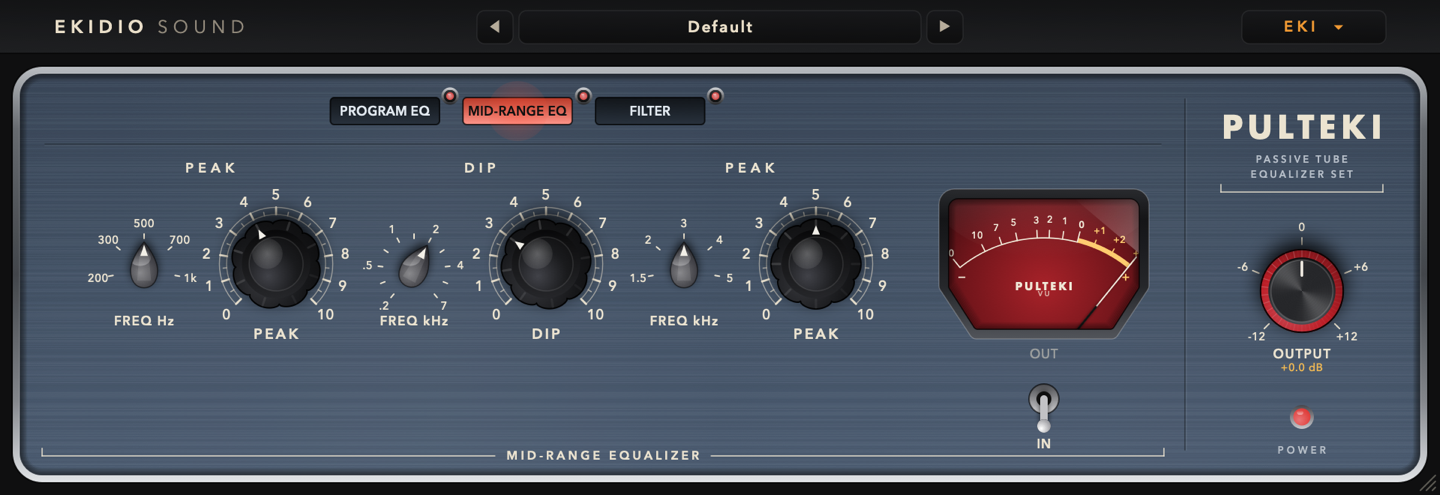
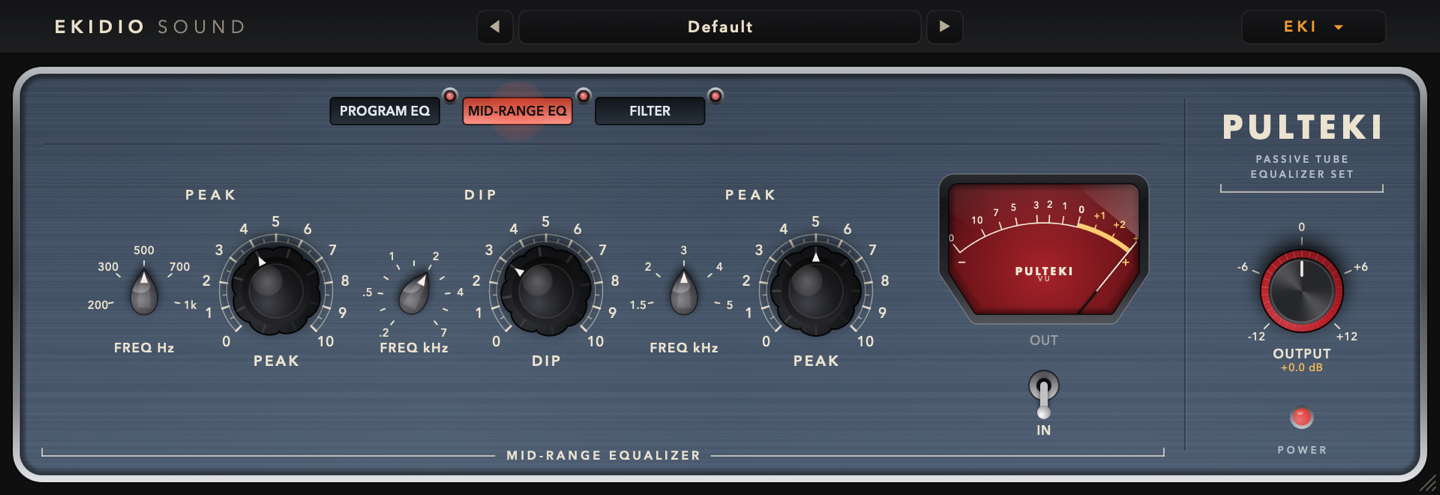
PULTEKI 1.0.1: symmetric MID-RANGE / FILTER pages; page images and download link updated

diff --git a/docs/hu/index.html b/docs/hu/index.html
@@ -146,7 +146,7 @@
       <div class="plugin" id="pulteki"><div class="viewer"><img src="../assets/pulteki-1.png" alt="PULTEKI – PROGRAM EQ" class="on"><img src="../assets/pulteki-2.png" alt="PULTEKI – MID-RANGE EQ"><img src="../assets/pulteki-3.png" alt="PULTEKI – FILTER"><div class="vtabs"><button type="button" onclick="pultekiPage(0)" class="on" aria-pressed="true">PROGRAM EQ</button><button type="button" onclick="pultekiPage(1)" aria-pressed="false">MID-RANGE EQ</button><button type="button" onclick="pultekiPage(2)" aria-pressed="false">FILTER</button></div></div><div><h3>PULTEKI</h3><div class="kind">Passzív csöves EQ-sor</div>
         <p>A legendás csöves equalizerek szelleme, kompromisszum nélküli tisztasággal. Három modul egy rackben: a programequalizer ikonikus mély trükkje – egyszerre emel és vág, amitől a lábdob és a basszus egyszerre lesz dús és feszes –, a középsávos EQ, ami előhozza vagy hátrébb teszi a hangszereket, és a szűrőegység a végső tisztításhoz. Selymes, levegős magasak, kerek, mély alj – és ha kell, egy csipetnyi csőszín is.</p>
         <p class="use">Mixbusz, mastering, lábdob, basszus, ének.</p>
-        <p><a class="btn primary" href="https://github.com/Ekidio/ekidio_sound_plugins/releases/download/pulteki-v1.0.0/EKIDIO-SOUND-PULTEKI-1.0.0.dmg">PULTEKI letöltése</a></p></div></div>
+        <p><a class="btn primary" href="https://github.com/Ekidio/ekidio_sound_plugins/releases/download/pulteki-v1.0.1/EKIDIO-SOUND-PULTEKI-1.0.1.dmg">PULTEKI letöltése</a></p></div></div>
     </div>
   </div>
 </section>

diff --git a/docs/index.html b/docs/index.html
@@ -146,7 +146,7 @@
       <div class="plugin" id="pulteki"><div class="viewer"><img src="assets/pulteki-1.png" alt="PULTEKI – PROGRAM EQ" class="on"><img src="assets/pulteki-2.png" alt="PULTEKI – MID-RANGE EQ"><img src="assets/pulteki-3.png" alt="PULTEKI – FILTER"><div class="vtabs"><button type="button" onclick="pultekiPage(0)" class="on" aria-pressed="true">PROGRAM EQ</button><button type="button" onclick="pultekiPage(1)" aria-pressed="false">MID-RANGE EQ</button><button type="button" onclick="pultekiPage(2)" aria-pressed="false">FILTER</button></div></div><div><h3>PULTEKI</h3><div class="kind">Passive tube equalizer set</div>
         <p>The spirit of the legendary tube equalizers, with uncompromising clarity. Three modules in one rack: the program EQ's iconic low-end trick – boost and cut at the same time, so kick and bass get both fuller and tighter –, the mid-range EQ that brings instruments forward or tucks them back, and the filter section for the final clean-up. Silky, airy highs, a round, deep bottom – and a touch of tube colour when you want it.</p>
         <p class="use">Mix bus, mastering, kick, bass, vocals.</p>
-        <p><a class="btn primary" href="https://github.com/Ekidio/ekidio_sound_plugins/releases/download/pulteki-v1.0.0/EKIDIO-SOUND-PULTEKI-1.0.0.dmg">Download PULTEKI</a></p></div></div>
+        <p><a class="btn primary" href="https://github.com/Ekidio/ekidio_sound_plugins/releases/download/pulteki-v1.0.1/EKIDIO-SOUND-PULTEKI-1.0.1.dmg">Download PULTEKI</a></p></div></div>
     </div>
   </div>
 </section>

diff --git a/Plugins/PULTEKI/PultekiPanel.mm b/Plugins/PULTEKI/PultekiPanel.mm
@@ -62,7 +62,7 @@ void drawFace(PanelController& pc) {
     const int pg = page(pc);
     static NSString* const names[3] = {@"PROGRAM EQUALIZER", @"MID-RANGE EQUALIZER", @"FILTER"};
     bracket(28, SPLIT - 14, 304, names[pg], INK);
-    auto title = [pg](CGFloat x, NSString* n) { textFont(n, @"AvenirNext-DemiBold", CGPointMake(x, pg == 2 ? 132 : 112), 9, rgb(INK), 3); };   // FILTER: a kapcsolókkal együtt középen
+    auto title = [pg](CGFloat x, NSString* n) { textFont(n, @"AvenirNext-DemiBold", CGPointMake(x, pg == 2 ? 140 : pg == 1 ? 130 : 112), 9, rgb(INK), 3); };   // a user rajza szerint (2026-10-23)
     if (pg == 0) { title(MID - 138, @"LOW"); title(MID + 138, @"HIGH"); }
     if (pg == 1) { title(MID1 - 180, @"PEAK"); title(MID1, @"DIP"); title(MID1 + 180, @"PEAK"); }
     if (pg == 2) { title(MID2 - 220, @"LOW CUT-OFF"); title(MID2 + 220, @"HIGH CUT-OFF"); }
@@ -71,7 +71,7 @@ void drawFace(PanelController& pc) {
     VUStyle v = dialStyle(@"PULTEKI", false, faces[std::clamp(int(pc.get(kVuColour) + 0.5f), 0, 2)]);
     v.legendSize = 11; v.legendKern = 2.2;
     // PROGRAM EQ és MID-RANGE EQ: jobbra fent (alatta az ATTEN SEL, ill. az IN); FILTER: középen, a két nagy kapcsoló között
-    drawVU(pg == 2 ? NSMakeRect(MID2 - 63, 124, 126, 90) : pg == 1 ? NSOffsetRect(kVuRect, 0, 10) : kVuRect,
+    drawVU(pg == 2 ? NSMakeRect(MID2 - 63, 124, 126, 90) : kVuRect,
            pc.processing ? pc.get(kVU) : -20.0f, v);
     // a fülek melletti LED-ek: a modul IN állásban van-e
     const AudioUnitParameterID ins[3] = {kEqpIn, kMeqIn, kHlfIn};
@@ -128,18 +128,18 @@ std::unique_ptr<PanelController> buildPultekiPanel(AudioUnit au) {
     sel(kHighFreq, MID + 138, 254, @"HIGH FREQUENCY kHz", @[@"3", @"4", @"5", @"8", @"10", @"12", @"16"], 4, 120, 0, 22);
 
     // ---- MID-RANGE EQ: három (kapcsoló + gomb) pár a MID tengely körül, 180-as osztással ----
-    inSwitch(kMeqIn, NSMidX(kVuRect), 266, 1);   // a VU alatt (mint a PROGRAM EQ oldalon az ATTEN SEL)
-    sel(kMidLowF, MID1 - 224, 180, @"FREQ Hz", @[@"200", @"300", @"500", @"700", @"1k"], 2, 100, 1, 18);
-    gain(kMidLowG, MID1 - 136, 176, @"PEAK", 1, 30);
-    sel(kDipF, MID1 - 44, 180, @"FREQ kHz", @[@".2", @"", @".5", @"", @"1", @"", @"2", @"", @"4", @"", @"7"], 4, 140, 1, 18);
-    gain(kDipG, MID1 + 44, 176, @"DIP", 1, 30);
-    sel(kMidHighF, MID1 + 136, 180, @"FREQ kHz", @[@"1.5", @"2", @"3", @"4", @"5"], 2, 100, 1, 18);
-    gain(kMidHighG, MID1 + 224, 176, @"PEAK", 1, 30);
+    inSwitch(kMeqIn, NSMidX(kVuRect), 257, 1);   // a VU alatt (mint a PROGRAM EQ oldalon az ATTEN SEL)
+    sel(kMidLowF, MID1 - 224, 198, @"FREQ Hz", @[@"200", @"300", @"500", @"700", @"1k"], 2, 100, 1, 18);
+    gain(kMidLowG, MID1 - 136, 194, @"PEAK", 1, 30);
+    sel(kDipF, MID1 - 44, 198, @"FREQ kHz", @[@".2", @"", @".5", @"", @"1", @"", @"2", @"", @"4", @"", @"7"], 4, 140, 1, 18);
+    gain(kDipG, MID1 + 44, 194, @"DIP", 1, 30);
+    sel(kMidHighF, MID1 + 136, 198, @"FREQ kHz", @[@"1.5", @"2", @"3", @"4", @"5"], 2, 100, 1, 18);
+    gain(kMidHighG, MID1 + 224, 194, @"PEAK", 1, 30);
 
     // ---- FILTER: két kapcsoló a MID tengely körül ----
     inSwitch(kHlfIn, MID2, 250, 2);   // a VU alatt, középen (mint a MID-RANGE oldalon)
-    sel(kLowCut, MID2 - 220, 198, @"Hz", @[@"OFF", @"50", @"80", @"100", @"150", @"250", @"500", @"750", @"1k", @"1.5k", @"2k"], 0, 140, 2, 34);
-    sel(kHighCut, MID2 + 220, 198, @"kHz", @[@"1.5", @"2", @"3", @"4", @"5", @"6", @"8", @"10", @"12", @"15", @"OFF"], 10, 140, 2, 34);
+    sel(kLowCut, MID2 - 220, 206, @"Hz", @[@"OFF", @"50", @"80", @"100", @"150", @"250", @"500", @"750", @"1k", @"1.5k", @"2k"], 0, 140, 2, 34);
+    sel(kHighCut, MID2 + 220, 206, @"kHz", @[@"1.5", @"2", @"3", @"4", @"5", @"6", @"8", @"10", @"12", @"15", @"OFF"], 10, 140, 2, 34);
 
     // ---- kimenet (minden oldalon) ----
     cs.push_back({Control::Knob, kOutput, {NAME_X, 194}, 28, @"OUTPUT", @[@"-12", @"-6", @"0", @"+6", @"+12"], -12, 12, 0,
